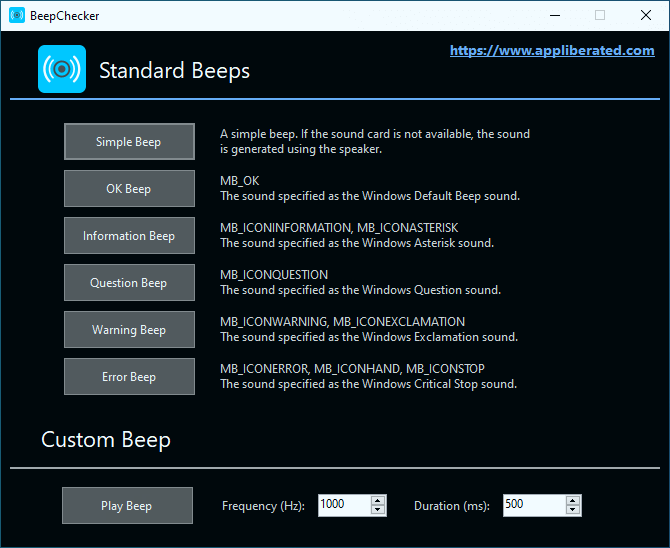
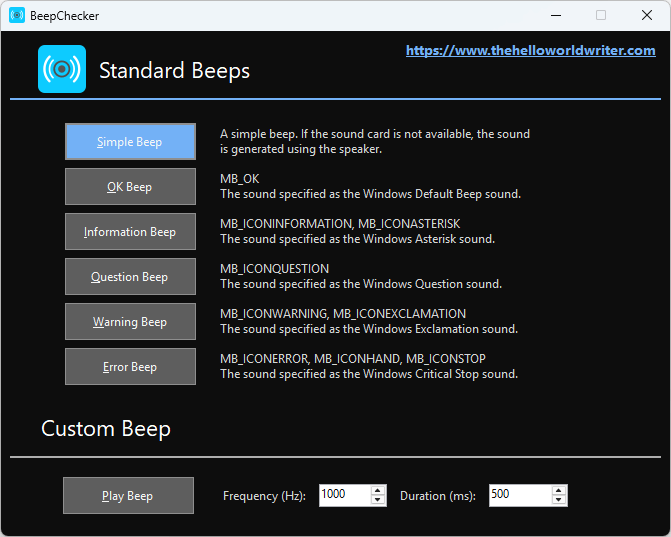
Update README screenshot and source code information

diff --git a/README.md b/README.md
@@ -30,7 +30,7 @@ The latest stable version of BeepChecker can be downloaded from [GitHub Releases
 
 ## Source Code
 
-BeepChecker is written in C# using Windows Forms and .NET Framework 2.0. The project is developed using Visual Studio Community 2019, with the help of [StyleCop.Analyzers](https://github.com/DotNetAnalyzers/StyleCopAnalyzers).
+BeepChecker is written in C# using Windows Forms and .NET Framework 4.8. The project is developed using Visual Studio Community 2022, with the help of [StyleCop.Analyzers](https://github.com/DotNetAnalyzers/StyleCopAnalyzers). The installation package is built using [NSIS: Nullsoft Scriptable Install System](https://nsis.sourceforge.io/Main_Page).
 
 ## Contributions
 
